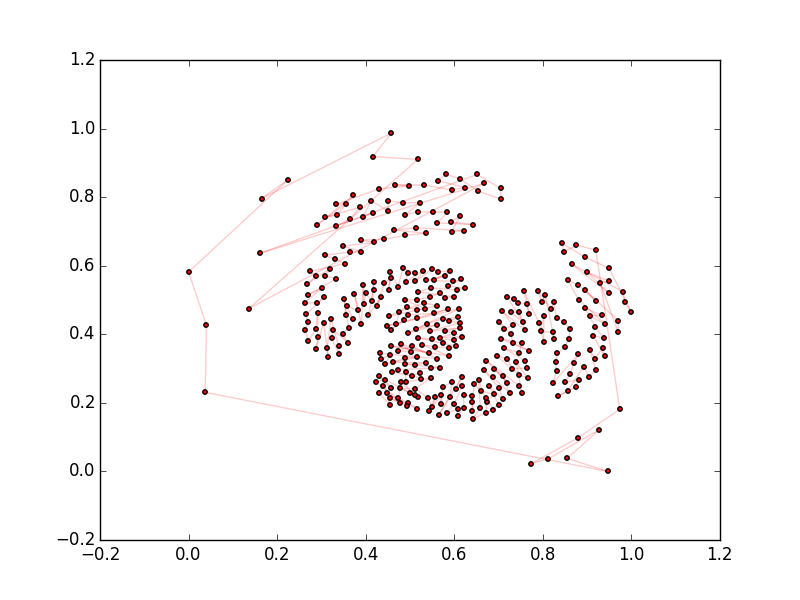
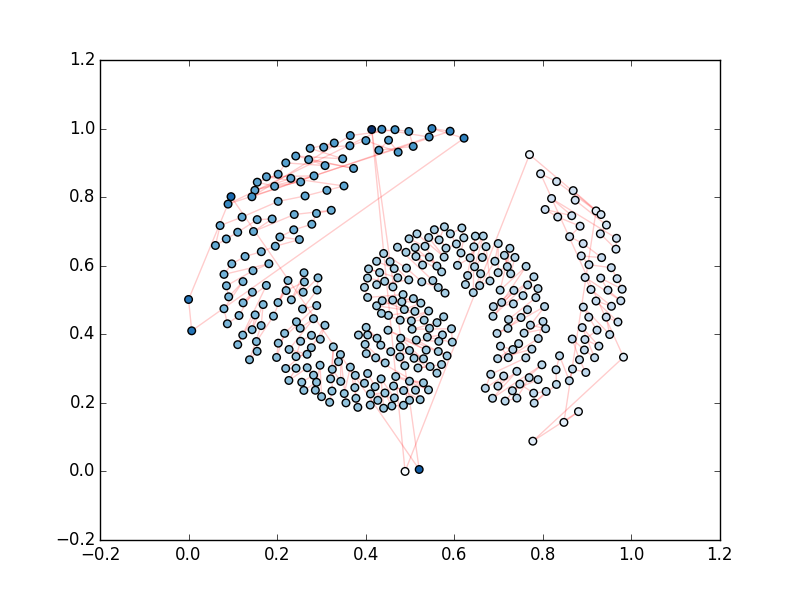
Colors can now be assigned to nodes of a tsp plot

Changed region(s): [[0.2188, 0.21, 0.7812, 0.81], [0.6562, 0.24, 0.6875, 0.3], [0.25, 0.63, 0.2812, 0.66]]

diff --git a/PyGMO/problem/_tsp.py b/PyGMO/problem/_tsp.py
@@ -2,7 +2,7 @@ from PyGMO.problem._problem import tsp,_tsp_encoding
 
 
 # Renaming and placing the enums
-tsp.encoding = _tsp_encoding
+tsp.encoding_type = _tsp_encoding
 
 def _tsp_ctor(self, weights=[[0, 1, 2], [1, 0, 5], [2, 5, 0]], type="full"):
     """
@@ -36,11 +36,11 @@ def _tsp_ctor(self, weights=[[0, 1, 2], [1, 0, 5], [2, 5, 0]], type="full"):
     arg_list = []
     arg_list.append(weights)
     if type == "full":
-    	encoding_type = tsp.encoding.FULL
+    	encoding_type = tsp.encoding_type.FULL
     elif type== "randomkeys":
-    	encoding_type = tsp.encoding.RANDOMKEYS
+    	encoding_type = tsp.encoding_type.RANDOMKEYS
     elif type== "cities":
-    	encoding_type = tsp.encoding.CITIES
+    	encoding_type = tsp.encoding_type.CITIES
     else:
     	raise ValueError("Unrecognized encoding type")
 
@@ -49,18 +49,46 @@ def _tsp_ctor(self, weights=[[0, 1, 2], [1, 0, 5], [2, 5, 0]], type="full"):
 tsp._orig_init = tsp.__init__
 tsp.__init__ = _tsp_ctor
 
-def _plot_tsp(self,x,pos=None,node_size=10,edge_color='r',edge_width=1,bias=None):
+def _plot_tsp(self,x, node_size=10, edge_color='r',
+				edge_width=1, bias=None, node_color=None, pos=None):
+	"""
+		Plots a tour represented in the chromosome x (using the same encoding of the self object)
+
+		USAGE: problem._plot_tsp(x, node_size=10, edge_color='r',
+				edge_width=1, bias=None, node_color=None, pos=None):
+
+		 * x: 			Crhomosome encoding the city tour.
+		 				The encoding type used must be the same as that of self
+		 * node_size:	size of the nodes in the graph visualization
+		 * edge_color:	size of the edges in the graph visualization
+		 * edge_width:	width of the edges in the graph visualization
+		 * bias:		when the graoh node positions are not used, the plot tries to use 
+		 				a spring model to place the nodes. The spring constants depend on this
+		 				bias parameter
+		 * node_color:	color of the nodes in the graph visualization
+		 * pos:			a dictionary containing the node positions (same format as networkx)
+	"""
+
+
 	if not (self.verify_x(x) and self.feasibility_x(x)):
 		raise Exception("crhomosome is unfeasible")
 	from matplotlib import pyplot as plt
 	import networkx as nx
+	from PyGMO.problem import tsp
 
 	fig = plt.gcf()
 
 	# We extract few informations on the problem
 	weights = self.weights
 	n_cities = len(weights[0])
-	edgelist = self.randomkeys2cities(x)
+	if self.encoding == tsp.encoding_type.RANDOMKEYS:
+		edgelist = self.randomkeys2cities(x)
+	elif self.encoding == tsp.encoding_type.CITIES:
+		edgelist = x
+	elif self.encoding == tsp.encoding_type.FULL:
+		edgelist = full2cities(x)
+
+	# We construct the list of edges (u,v) containing the indices of the cities visited 
 	edgelist = [(edgelist[i],edgelist[i+1]) for i in range(n_cities-1)] + [(edgelist[-1],edgelist[0])]
 	if bias==None:
 		bias = max([max(d) for d in weights])
@@ -80,7 +108,10 @@ def _plot_tsp(self,x,pos=None,node_size=10,edge_color='r',edge_width=1,bias=None
 	# Now we draw the graph
  	if pos==None:
  		pos = nx.layout.spring_layout(G)
-	nx.draw_networkx_nodes(G,pos=pos,node_size=10)
+ 	if node_color==None:
+ 		node_color=[0.4]*n_cities
+
+	nx.draw_networkx_nodes(G,pos=pos,node_size=node_size, cmap=plt.cm.Blues, node_color=node_color)
 	nx.draw_networkx_edges(G,pos,edgelist=edgelist,
                     width=edge_width,alpha=0.2,edge_color=edge_color)
 	fig.canvas.draw()

diff --git a/PyGMO/util/_tsp.py b/PyGMO/util/_tsp.py
@@ -128,6 +128,24 @@ def _three_impulse(pl1,pl2):
     return DV1+DV2
 
 def tle2tsp(tlefilename, verbose=False):
+    """
+    This function reads a Two-Line-Element file as taken from the NORAD database
+    http://www.celestrak.com/NORAD/elements/ and returns a matrix containing, in its 
+    i,j element, the DV cost of transferring from the i-th to the j-th orbit. It also returns a list 
+    of the object orbital elements.
+
+    The DV is computed as an approximation of the optimal three-impulse transfer which
+    holds for small eccentricities (as it neglects the difference in the argument of perigee)
+
+    USAGE: weights,el = util.tle2tsp(filename, verbose=True):
+
+    * filename: A string containin the file name (assumed to be in the working directory)
+    * verbose: Activates some screen output to show the progress.
+
+    * [out] -> weights
+    * [out] -> el a list containing the orbital elements of the TLE orbits (a,e,i,W,w,M) in SI units
+
+    """
     from PyKEP import planet_tle
     planet_list = []
 
@@ -138,6 +156,7 @@ def tle2tsp(tlefilename, verbose=False):
             planet_list.append( planet_tle(line1,line2) )
 
     weights = []
+    elements = []
     for source_idx,source in enumerate(planet_list):
         row = []
         if verbose:
@@ -150,4 +169,7 @@ def tle2tsp(tlefilename, verbose=False):
                 dist = _three_impulse(source,target)
                 row.append(dist)
         weights.append(row)
-    return weights
+    for source in planet_list:
+        elements.append(source.orbital_elements)
+
+    return weights,elements

diff --git a/PyGMO/problem/problem.cpp b/PyGMO/problem/problem.cpp
@@ -373,6 +373,7 @@ BOOST_PYTHON_MODULE(_problem) {
 		.def("cities2full", &problem::tsp::cities2full)
 		.def("randomkeys2cities", &problem::tsp::randomkeys2cities)
 		.def("cities2randomkeys", &problem::tsp::cities2randomkeys)
+		.add_property("encoding", make_function(&problem::tsp::get_encoding, return_value_policy<copy_const_reference>()))
 		.add_property("weights", make_function(&problem::tsp::get_weights, return_value_policy<copy_const_reference>()));
 
 	// SCH

diff --git a/doc/sphinx/examples/example7.rst b/doc/sphinx/examples/example7.rst
@@ -22,8 +22,8 @@ download the Two-Line-Element files of the selected debris. In this tutorial we 
 .. code-block:: python
 
 	from PyGMO import * 
-	fen = util.tle2tsp("fengyun.tle",verbose=True)
-	ir = util.tle2tsp("iridium33.tle")
+	fen, el = util.tle2tsp("fengyun.tle",verbose=True)
+	ir, el = util.tle2tsp("iridium33.tle")
 
 The variables fen and ir now contain the square matrix of distances between debris pieces. These are not euclidean distances as they are defined as the optimal :math:`\Delta V` needed to transfer between orbits during a randez-vous mission. The resulting TSP is symmetric but not metric. We can solve the TSP problem using, for example, the inver-over algorithm. We consider the IRIDIUM33 data
 
@@ -31,9 +31,11 @@ The variables fen and ir now contain the square matrix of distances between debr
 
 	from PyGMO import * 
 	prob = problem.tsp(ir,type='randomkeys')
-	algo=algorithm.inverover(30000)
+	algo = algorithm.inverover(30000)
 	pop = algo.evolve(pop)
-	pos = prob.plot(pop.champion.x,bias=10)
+	color = [item[3] if item[3]>5 else item[3]+6.28 for item in el] #Use this only for the IRIDIUM data
+	pos = prob.plot(pop.champion.x,bias=5,node_color=color,node_size=30)
+
 
 Note how we selected a randomkeys encoding for the TSP. This is not crucial in this case and any of the other encodings would hold identical results.
 
@@ -41,8 +43,8 @@ The visualization of the tour is then made using the plot method and results in 
 
 .. image:: ../images/examples/ex7_ir.png
 
-Optimal tour to remove all of the IRIDUM33 debris (369 cities). The average cost of one transfer between debris orbit is 142 m/s, the total cost of the tour is 52 km/s
+Optimal tour to remove all of the IRIDUM33 debris (369 cities). The average cost of one transfer between debris orbit is 142 m/s, the total cost of the tour is 52 km/s. The color shade indicates the debris RAAN (Right Ascension of the Ascending Node). As it clearly appears from this visualization, the optimal tour emerges to make use of a startegy we will call "RAAN walk". As the Iridium debris do not have an equally spaced RAAN spanning the all the possible values in [0, 2pi], but are rather clustered in one subinterval [5.5,7.2], the RAAN walk must be interrupted and a few expensive transfers must be made, at a certain point, to link distant orbits.
 
 .. image:: ../images/examples/ex7_fen.png
 
-Optimal tour to remove all of the FENGYUN 1C debris (2651 cities). The average cost of one transfer between debris orbit is 98 m/s, the total cost is a staggering 265 km/s.
+Optimal tour to remove all of the FENGYUN 1C debris (2651 cities). The average cost of one transfer between debris orbit is 98 m/s, the total cost is a staggering 265 km/s. The color shade indicates the debris RAAN. As it clearly appears from this visualization, the optimal tour is making use, again, of a RAAN walk. This time, though, as the debris RAAN is almost uniformly spread in the [0, 2pi] range, the tour is circular. Note that the sudden change of color from white to blue correspond, simply to the cut of the [0,2pi] range, so that 2pi+epsilon is mapped back to epsilon.
